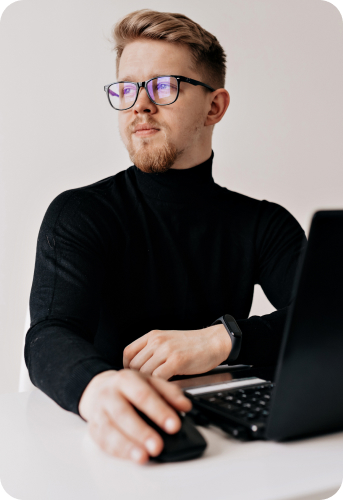
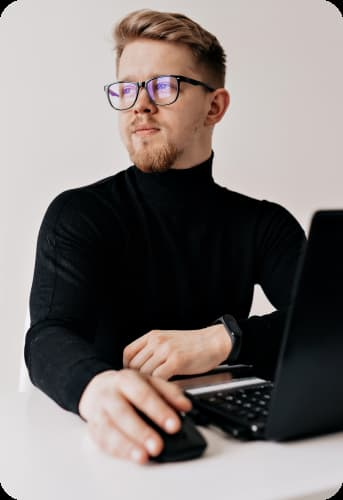
add ac

diff --git a/src/partials/about.html b/src/partials/about.html
@@ -1,7 +1,7 @@
-<section class="about-me" id="about">
+<section class="section about-me-section" id="about">
     <div class="container about-me-container">
         <h2 class="visually-hidden">About me</h2>
-        <div>
+        <div class="about-intro-text">
             <p class="intro-text">
                 I WORK WITH PEOPLE ALL OVER THE WORLD TO CREATE IMPRESSIVE AND
                 <span class="highlight-red">FUNCTIONAL</span>
@@ -9,7 +9,7 @@
                 THAT REFLECT EACH CLIENT'S UNIQUE PERSONALITY.
             </p>
         </div>
-        <div>
+        <div class="about-intro-img">
             <picture>
                 <source srcset="
                     ./img/about/about-desk@1x.jpg, 
@@ -26,19 +26,26 @@
                 <source srcset="
                     ./img/about/about-tab@1x.jpg, 
                     ./img/about/about-tab@2x.jpg" 
-                    media="(max-width: 767px)" />
-                <img class="about-me-img" src="./img/about/about-mob@2x.jpg" alt="men" />
+                    media="(max-width: 767px)" 
+                />
+                <img 
+                class="about-me-img" 
+                src="./img/about/about-mob@1x.jpg" 
+                alt="men" 
+                />
             </picture>
         </div>
     </div>
     <div class="container accordion-container">
         <div class="ac">
-            <h2 class="ac-header">ABOUT ME</h2>
-            <button type="button" class="ac-trigger">
-                <svg class="arrow-down" width="36" height="36">
-                    <use href="../img/icons/sprite.svg#icon-arrow-down"></use>
-                </svg>
-            </button>
+            <div class="ac-box">
+                <h2 class="ac-header">ABOUT ME</h2>
+                <button type="button" class="ac-trigger">
+                    <svg class="arrow-down" width="36" height="36">
+                        <use href="../img/icons/sprite.svg#icon-arrow-down"></use>
+                    </svg>
+                </button>
+            </div>
             <div class="ac-panel">
                 <p class="ac-text">I am Lloyd Jefferson, a talented programmer with extensive expertise in software development. I have an understanding of
                 different programming languages and technologies, always ready to improve my skills. I always follow the latest trends
@@ -55,22 +62,75 @@
         </div>
     
         <div class="ac">
-            <h2 class="ac-header">
-                <button type="button" class="ac-trigger">Lorem ipsum dolor sit amet.</button>
-            </h2>
+            <div class="ac-box">
+                <h2 class="ac-header">ROLE</h2>
+                <button type="button" class="ac-trigger">
+                    <svg class="arrow-down" width="36" height="36" border-radius="50px">
+                        <use href="../img/icons/sprite.svg#icon-arrow-down"></use>
+                    </svg>
+                </button>
+            </div>
             <div class="ac-panel">
-                <p class="ac-text">Lorem ipsum dolor sit amet, consectetur adipiscing elit.</p>
+                <ul>
+                    <li>
+                        <p>Frontend development</p>
+                    </li>
+                    <li>
+                        <p>HeadlessCMS,Wordpress</p>
+                    </li>
+                    <li>
+                        <p>Blender(enjoy)</p>
+                    </li>
+                </ul>
             </div>
         </div>
     
         <div class="ac">
-            <h2 class="ac-header">
-                <button type="button" class="ac-trigger">Lorem ipsum dolor sit amet.</button>
-            </h2>
+            <div class="ac-box">
+                <h2 class="ac-header">EDUCATION</h2>
+                <button type="button" class="ac-trigger">
+                    <svg class="arrow-down" width="36" height="36">
+                        <use href="../img/icons/sprite.svg#icon-arrow-down"></use>
+                    </svg>
+                </button>
+            </div>
             <div class="ac-panel">
-                <p class="ac-text">Lorem ipsum dolor sit amet, consectetur adipiscing elit.</p>
+                <ul>
+                    <li>
+                        <p>2018 - 2019 / Frontend Development Diploma, GoIT IT School, New York</p>
+                    </li>
+                    <li>
+                        <p>2019 - 2020 / Advanced Web Development Certificate, GoIT IT School, New York</p>
+                    </li>
+                    <li>
+                        <p>2020 - 2022 / Advanced Blender Animation Techniques, Udemy</p>
+                    </li>
+                </ul>
             </div>
         </div>
+    </div>
+
+    <!-- Slider main container -->
+    <div class="swiper">
+        <!-- Additional required wrapper -->
+        <div class="swiper-wrapper">
+            <!-- Slides -->
+            <div class="swiper-slide">Slide 1</div>
+            <div class="swiper-slide">Slide 2</div>
+            <div class="swiper-slide">Slide 3</div>
+            <div class="swiper-slide">Slide 4</div>
+            <div class="swiper-slide">Slide 5</div>
+            <div class="swiper-slide">Slide 6</div>
+        </div>
+        <!-- If we need pagination -->
+        <div class="swiper-pagination"></div>
+    
+        <!-- If we need navigation buttons -->
+        <div class="swiper-button-prev"></div>
+        <div class="swiper-button-next"></div>
+    
+        <!-- If we need scrollbar -->
+        <div class="swiper-scrollbar"></div>
     </div>
 
 </section>

diff --git a/src/css/about.css b/src/css/about.css
@@ -20,6 +20,8 @@
 .intro-text {
     text-transform: uppercase;
     color: #FAFAFA;
+    background-color: #3B3B3B;
+    border-radius: 24px;
     
 }
 
@@ -31,4 +33,31 @@
 .highlight-grey {
     color: rgba(250, 250, 250, 0.4);
     
+}
+
+.section.about-me-section {
+    padding-top: 0;
+    padding-bottom: 0;
+    
+}
+
+/* .arrow-down{
+    fill: ;
+} */
+
+.ac-box {
+    display: flex;
+    justify-content: space-between;
+    align-items: center;
+}
+
+.about-intro-img {
+    width: 100%;
+    max-width: 300px;
+    /* Максимальна ширина зображення */
+}
+
+.about-intro-text {
+    margin-bottom: 20px;
+    text-align: center;
 }
